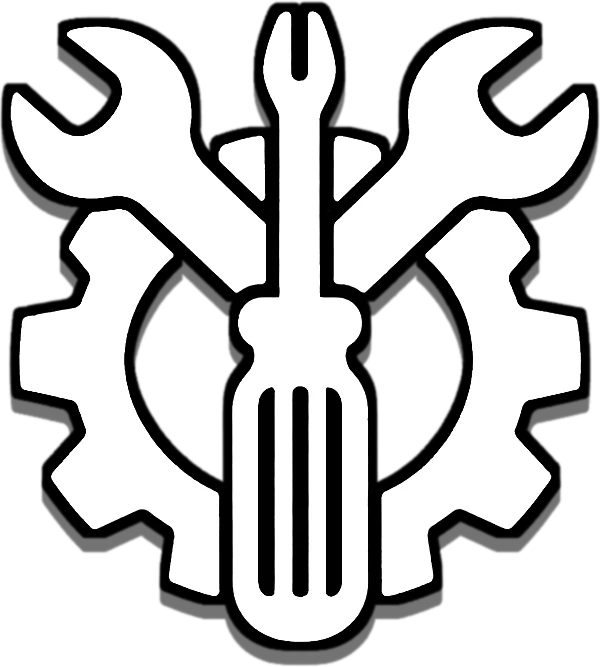
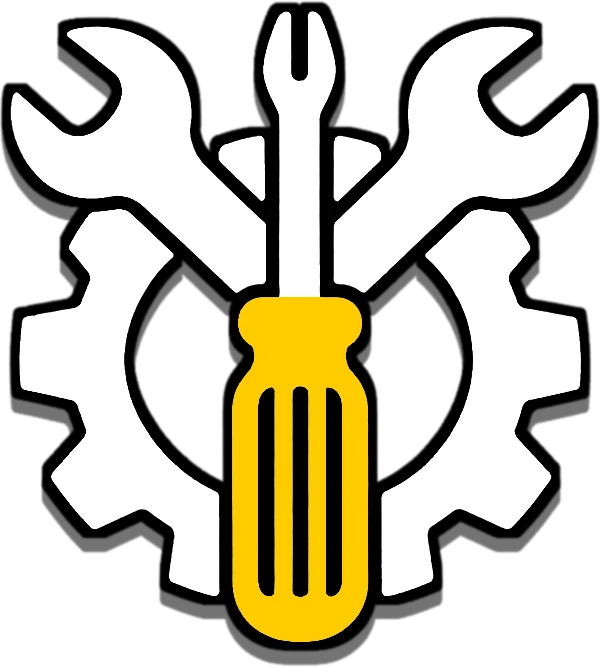
Correcciones de Marcelo, emblema metálico, SEO de consorcios y Airbnb
- Chapa, footer y favicon con el emblema metálico (gris con mango amarillo)
- Línea de la chapa en amarillo
- Qué arreglamos: casas, consorcios y Airbnb; llaves termomagnéticas y
  disyuntores diferenciales; filtraciones y fugas de agua
- Visita eléctrica: artefacto de iluminación básico
- SEO: consorcios y Airbnb en descripción, datos estructurados y nueva FAQ
- Logos para foto de perfil: azul, metálico y circular con nombre completo
- Imagen para compartir regenerada

Changed region(s): [[0.36, 0.4198, 0.63, 0.9595]]

diff --git a/index.html b/index.html
@@ -4,11 +4,11 @@
 <meta charset="utf-8">
 <meta name="viewport" content="width=device-width, initial-scale=1">
 <title>Electricista y plomero a domicilio en Capital Federal y zona norte | MJV Reparaciones Integrales</title>
-<meta name="description" content="Electricista y plomero a domicilio en Saavedra, Núñez, Belgrano, Villa Urquiza, Vicente López, Olivos y todos los barrios de Capital Federal. Visita que se descuenta del trabajo, presupuesto por escrito y 30 días de garantía.">
+<meta name="description" content="Electricista y plomero a domicilio para casas, departamentos, consorcios y Airbnb en Saavedra, Núñez, Belgrano, Villa Urquiza, Vicente López, Olivos y toda Capital Federal. Presupuesto por escrito y 30 días de garantía.">
 <meta property="og:type" content="website">
 <meta property="og:locale" content="es_AR">
 <meta property="og:title" content="Electricista y plomero a domicilio | MJV Reparaciones Integrales">
-<meta property="og:description" content="A domicilio en Capital Federal y zona norte. La visita se descuenta del trabajo, presupuesto por escrito y 30 días de garantía.">
+<meta property="og:description" content="A domicilio en Capital Federal y zona norte, para casas, consorcios y Airbnb. La visita se descuenta del trabajo, presupuesto por escrito y 30 días de garantía.">
 <meta name="theme-color" content="#0B3D91">
 <link rel="icon" href="favicon.png" type="image/png">
 <link rel="apple-touch-icon" href="apple-touch-icon.png">
@@ -81,7 +81,7 @@
   h1 span{display:block}
   h1 b{display:block;font-size:clamp(4.4rem,min(17vw,27vh),18rem);line-height:.88;letter-spacing:.03em}
   .chapa .cond{font-size:clamp(1.2rem,min(3.2vw,4.6vh),3rem);font-weight:700;margin:14px 0 0;display:flex;justify-content:center;gap:4px clamp(24px,5vw,72px);flex-wrap:wrap;
-    border-top:4px solid #f6f8fb;padding-top:12px;text-transform:uppercase;letter-spacing:.05em}
+    border-top:4px solid var(--taxi);padding-top:12px;text-transform:uppercase;letter-spacing:.05em}
   @media (max-width:700px){ /* celular: menos marco, letras más grandes, sin aire de sobra */
     .chapa{--b:14px;padding:calc(var(--b) + 18px) calc(var(--b) + 12px);border-radius:14px}
     .marca{flex-direction:column;gap:6px}
@@ -155,6 +155,7 @@
   .franja li::before{content:counter(p) ".";grid-column:1;padding-right:12px;font-family:"Barlow Condensed",sans-serif;font-weight:700;font-size:3.2rem;line-height:.9}
   .franja li > span:not(.ic){grid-column:2;font-size:1.1rem}
 
+  .donde{font-size:1.2rem;margin:-8px 0 8px}
   .cols{display:grid;gap:8px 48px;grid-template-columns:repeat(auto-fit,minmax(280px,1fr))}
   .cols h3{font-size:1.7rem;margin:18px 0 4px;color:var(--taxi)}
   .cols p{margin:0}
@@ -299,10 +300,11 @@
   "url": "https://mjvreparaciones.vercel.app/",
   "name": "MJV Reparaciones Integrales",
   "logo": "https://mjvreparaciones.vercel.app/apple-touch-icon.png",
-  "description": "Electricidad, plomería y arreglos del hogar a domicilio en todos los barrios de Capital Federal y en zona norte. La visita se descuenta del trabajo, 15% de descuento programando con 10 días, presupuesto por escrito antes de empezar y 30 días de garantía.",
+  "description": "Electricidad, plomería y arreglos del hogar a domicilio para casas, departamentos, consorcios y alquileres temporarios tipo Airbnb, en todos los barrios de Capital Federal y en zona norte. La visita se descuenta del trabajo, 15% de descuento programando con 10 días, presupuesto por escrito antes de empezar y 30 días de garantía.",
   "image": ["https://mjvreparaciones.vercel.app/og.jpg", "https://mjvreparaciones.vercel.app/equipo-mjv-electricista-plomero.jpg"],
   "telephone": "+5491154959942",
   "priceRange": "$$",
+  "knowsAbout": ["Electricidad domiciliaria", "Plomería", "Mantenimiento de consorcios", "Mantenimiento de alquileres temporarios y Airbnb", "Bombas presurizadoras"],
   "currenciesAccepted": "ARS",
   "paymentAccepted": "Efectivo, transferencia, Mercado Pago, billeteras virtuales",
   "openingHoursSpecification": [{"@type": "OpeningHoursSpecification", "dayOfWeek": ["Monday", "Tuesday", "Wednesday", "Thursday", "Friday"], "opens": "07:00", "closes": "18:00"}],
@@ -335,7 +337,8 @@
   "@context": "https://schema.org",
   "@type": "FAQPage",
   "mainEntity": [
-    {"@type": "Question", "name": "¿En qué barrios trabajan?", "acceptedAnswer": {"@type": "Answer", "text": "En todos los barrios de Capital Federal: Agronomía, Almagro, Balvanera, Barracas, Belgrano, Boedo, Caballito, Chacarita, Coghlan, Colegiales, Constitución, Flores, Floresta, La Boca, La Paternal, Liniers, Mataderos, Monte Castro, Monserrat, Nueva Pompeya, Núñez, Palermo, Parque Avellaneda, Parque Chacabuco, Parque Chas, Parque Patricios, Puerto Madero, Recoleta, Retiro, Saavedra, San Cristóbal, San Nicolás, San Telmo, Vélez Sarsfield, Versalles, Villa Crespo, Villa del Parque, Villa Devoto, Villa General Mitre, Villa Lugano, Villa Luro, Villa Ortúzar, Villa Pueyrredón, Villa Real, Villa Riachuelo, Villa Santa Rita, Villa Soldati y Villa Urquiza. Y en zona norte: Vicente López, Olivos, Florida, Florida Oeste, La Lucila, Munro, Villa Martelli, Carapachay, Villa Adelina, Martínez, Acassuso, San Isidro, Béccar y Boulogne. En departamentos y casas, para dueños e inquilinos."}},
+    {"@type": "Question", "name": "¿En qué barrios trabajan?", "acceptedAnswer": {"@type": "Answer", "text": "En todos los barrios de Capital Federal: Agronomía, Almagro, Balvanera, Barracas, Belgrano, Boedo, Caballito, Chacarita, Coghlan, Colegiales, Constitución, Flores, Floresta, La Boca, La Paternal, Liniers, Mataderos, Monte Castro, Monserrat, Nueva Pompeya, Núñez, Palermo, Parque Avellaneda, Parque Chacabuco, Parque Chas, Parque Patricios, Puerto Madero, Recoleta, Retiro, Saavedra, San Cristóbal, San Nicolás, San Telmo, Vélez Sarsfield, Versalles, Villa Crespo, Villa del Parque, Villa Devoto, Villa General Mitre, Villa Lugano, Villa Luro, Villa Ortúzar, Villa Pueyrredón, Villa Real, Villa Riachuelo, Villa Santa Rita, Villa Soldati y Villa Urquiza. Y en zona norte: Vicente López, Olivos, Florida, Florida Oeste, La Lucila, Munro, Villa Martelli, Carapachay, Villa Adelina, Martínez, Acassuso, San Isidro, Béccar y Boulogne. En departamentos y casas, para dueños e inquilinos. Trabajamos en casas y departamentos, consorcios y alquileres temporarios tipo Airbnb."}},
+    {"@type": "Question", "name": "¿Trabajan para consorcios y Airbnb?", "acceptedAnswer": {"@type": "Answer", "text": "Sí. Además de casas y departamentos, hacemos arreglos de electricidad y plomería para consorcios, administraciones y alquileres temporarios tipo Airbnb, en Capital Federal y zona norte."}},
     {"@type": "Question", "name": "¿Cuánto sale la visita?", "acceptedAnswer": {"@type": "Answer", "text": "La visita cuesta $80.000 e incluye un arreglo simple de electricidad o de plomería. Si el trabajo es más grande, te pasamos el presupuesto por escrito y esos $80.000 se descuentan del total cuando lo hacemos."}},
     {"@type": "Question", "name": "¿Cuánto cobra un electricista por boca?", "acceptedAnswer": {"@type": "Answer", "text": "El cableado por boca sale entre $50.000 y $70.000, según el estado de la instalación. Es mano de obra, sin materiales."}},
     {"@type": "Question", "name": "¿Cuánto sale instalar un ventilador de techo?", "acceptedAnswer": {"@type": "Answer", "text": "Desde $180.000 de mano de obra. Si ya hay una boca en el techo preparada, es lo más simple; si hay que cablear, se suma por boca."}},
@@ -359,7 +362,7 @@
   <div class="ancho">
     <div class="chapa">
       <i class="remache" aria-hidden="true"></i><i class="remache" aria-hidden="true"></i><i class="remache" aria-hidden="true"></i><i class="remache" aria-hidden="true"></i>
-      <div class="marca"><img src="insignia-blanca.webp" alt="" width="600" height="667" fetchpriority="high"><h1><b>MJV</b> <span>Reparaciones Integrales</span></h1></div>
+      <div class="marca"><img src="insignia-metal.webp" alt="" width="600" height="667" fetchpriority="high"><h1><b>MJV</b> <span>Reparaciones Integrales</span></h1></div>
       <p class="cond"><span>Electricidad y plomería</span><span>Capital Federal y zona norte</span></p>
     </div>
     <div class="bajo">
@@ -389,9 +392,10 @@
 
 <section class="ancho" id="servicios">
   <h2>Qué arreglamos</h2>
+  <p class="donde">En casas y departamentos, consorcios y alquileres temporarios tipo Airbnb.</p>
   <div class="cols">
-    <div><h3>Electricidad</h3><p>Tableros, térmicas que saltan, cortocircuitos, cableado por boca, tomacorrientes y teclas de luz, artefactos de iluminación y ventiladores de techo.</p></div>
-    <div><h3>Plomería</h3><p>Canillas que gotean, griferías monocomando, cueros y flexibles, pérdidas de agua, mochilas de inodoro, sifones, termotanques eléctricos y bombas presurizadoras.</p></div>
+    <div><h3>Electricidad</h3><p>Tableros, llaves termomagnéticas que se disparan, disyuntores diferenciales, cortocircuitos, cableado por boca, tomacorrientes y teclas de luz, artefactos de iluminación y ventiladores de techo.</p></div>
+    <div><h3>Plomería</h3><p>Canillas que gotean, griferías monocomando, cueros y flexibles, filtraciones, fugas y pérdidas de agua, mochilas de inodoro, sifones, termotanques eléctricos y bombas presurizadoras.</p></div>
     <div><h3>Colgar y colocar</h3><p>Televisores y estantes.</p></div>
     <div><h3>Armado e instalación</h3><p>Muebles y lavarropas.</p></div>
     <div><h3>Techos y humedad</h3><p>Membranas, filtraciones y humedad.</p></div>
@@ -404,7 +408,7 @@
     <p class="promo"><span class="ic a-paso" aria-hidden="true"><svg><use href="#m-calendar-clock"/></svg></span><span><b>15% de descuento</b> si programás el trabajo con 10 días o más de anticipación.</span></p>
     <h3 class="grupo">Visita con arreglo incluido</h3>
     <ul class="precios visitas">
-      <li><span class="ic a-pulso" aria-hidden="true"><svg><use href="#m-power-socket-au"/></svg></span><h4>Visita de electricidad</h4><span class="inc">Incluye cambiar un tomacorriente, una tecla o un artefacto de iluminación.</span><p><small>Precio</small>$80.000</p></li>
+      <li><span class="ic a-pulso" aria-hidden="true"><svg><use href="#m-power-socket-au"/></svg></span><h4>Visita de electricidad</h4><span class="inc">Incluye cambiar un tomacorriente, una tecla o un artefacto de iluminación básico.</span><p><small>Precio</small>$80.000</p></li>
       <li><span class="ic a-canilla" aria-hidden="true"><svg><use href="#m-faucet"/></svg><svg class="gota"><use href="#m-water"/></svg></span><h4>Visita de plomería</h4><span class="inc">Incluye reparar una grifería, cambiar los cueros o un flexible, regular un depósito de pared o una mochila, o limpiar el sifón de la cocina.</span><p><small>Precio</small>$80.000</p></li>
     </ul>
     <p class="nota">Si el arreglo es más grande y hace falta un relevamiento y un presupuesto, la visita cuesta lo mismo y se descuenta del total cuando hacemos el trabajo.</p>
@@ -452,7 +456,11 @@
     <h2>Preguntas frecuentes</h2>
     <details>
       <summary>¿En qué barrios trabajan?</summary>
-      <p>En todos los barrios de Capital Federal y en zona norte, en departamentos y casas, para dueños e inquilinos. La <a href="#barrios">lista completa de barrios</a> está más abajo.</p>
+      <p>En todos los barrios de Capital Federal y en zona norte. Trabajamos en casas y departamentos, consorcios y alquileres temporarios tipo Airbnb, para dueños, inquilinos y administradores. La <a href="#barrios">lista completa de barrios</a> está más abajo.</p>
+    </details>
+    <details>
+      <summary>¿Trabajan para consorcios y Airbnb?</summary>
+      <p>Sí. Además de casas y departamentos, hacemos arreglos de electricidad y plomería para consorcios, administraciones y alquileres temporarios tipo Airbnb, en Capital Federal y zona norte.</p>
     </details>
     <details>
       <summary>¿Cuánto sale la visita?</summary>
@@ -517,7 +525,7 @@
 
 <section class="franja">
   <div class="ancho cierre">
-    <p class="marquita"><img src="insignia.webp" alt="" width="110" height="120" loading="lazy">MJV</p>
+    <p class="marquita"><img src="insignia-metal.webp" alt="" width="110" height="122" loading="lazy">MJV</p>
     <div>
       <h2>Lunes a viernes de 7 a 18, y urgencias</h2>
       <p>Las urgencias las atendemos también de noche, fines de semana y feriados, sujetas a disponibilidad.</p>
